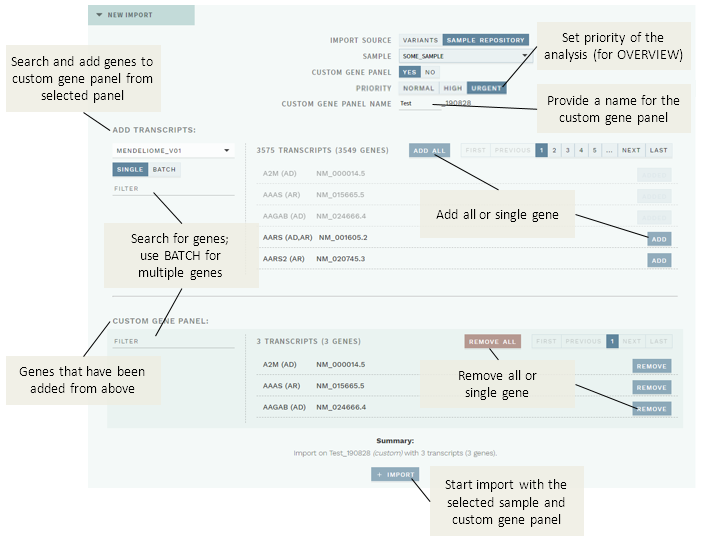
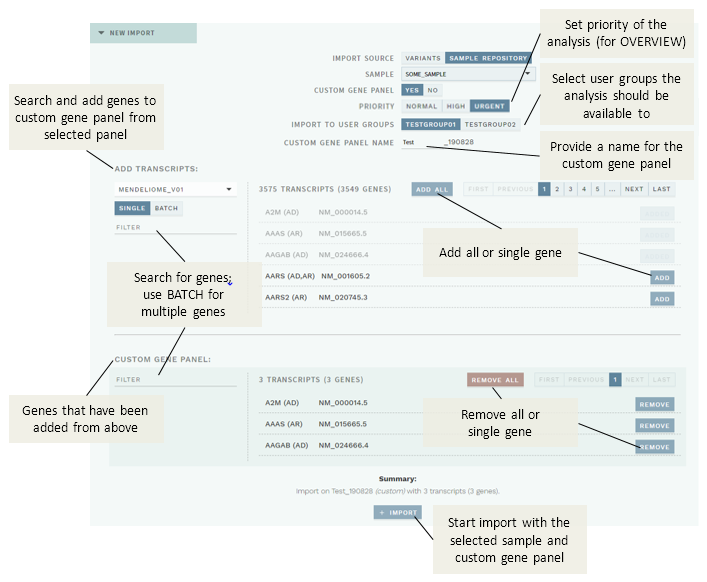
[docs] Changes in release notes and manual for !463

diff --git a/docs/releasenotes/README.md b/docs/releasenotes/README.md
@@ -92,6 +92,19 @@ In addition, ELLA now displays a message at the bottom of the page if a finalize
 
 Note that the message is only displayed when a user finalizes another variant or manually refreshes the view.
 
+#### Select user group on custom imports
+
+To better support custom gene panel imports that should be available to more than one user group, the custom gene panel import dialogue now includes an option to select user groups: 
+
+<div style="text-indent: 4%;">
+    <img src="./img/1-12-select-user-group-custom-import.png">
+    <br>
+    <div style="font-size: 80%;">
+        <strong>Figure: </strong>Message when evaluation has been updated by another user.
+    </div>
+    <br>
+</div>
+
 
 ### All changes
 
@@ -106,7 +119,7 @@ Note that the message is only displayed when a user finalizes another variant or
 <!-- MR !450 -->
 - Added support for templates in the Gene information comment field.
 <!-- MR !453 -->
-- Fixed wrong tooltip on `SUBMIT REPORT` button
+- Fixed wrong tooltip on `SUBMIT REPORT` button.
 <!-- MR !454 -->
 - [Show latest interpretation round by default for historical analyses, including warning](#improvements-to-history).
 <!-- MR !455 -->
@@ -115,10 +128,10 @@ Note that the message is only displayed when a user finalizes another variant or
 - [Display message when variant in ongoing analysis has been updated by another user](#improved-warnings).
 <!-- MR !458 -->
 - [Variant collision warnings are now separated from annotation warnings on the CLASSIFICATION page](#improved-warnings).
-<!-- MR !463 TODO: QA, update manual/data-import-reanalyses.html#custom-reanalyses-from-sample-repository -->
-- It is now possible to select which user groups an imported custom gene panel analysis should be available to. 
+<!-- MR !463 -->
+- [Added possibility to select which user groups an imported custom gene panel analysis should be available to](#select-user-group-on-custom-imports). 
 <!-- MR !465 -->
-- [Improved design of the history modal, with addition of CLASSIFICATION REPORT history and sorted ACMG criteria.](#improvements-to-history)
+- [Improved design of the history modal, with addition of CLASSIFICATION REPORT history and sorted ACMG criteria](#improvements-to-history).
 <!-- MR !473 -->
 - Added possibility for linking attachments on the INFO page.
 <!-- MR !475 -->

diff --git a/docs/manual/data-import-reanalyses.md b/docs/manual/data-import-reanalyses.md
@@ -116,6 +116,8 @@ If you choose CUSTOM GENE PANEL: `YES`, you may instead add any combination of g
 
 To start a reanalysis with a custom gene panel for a chosen sample: 
 
+  - Select the user groups the analysis should be made available to (IMPORT TO USER GROUPS).
+  
   - Add a name for custom gene panel in the CUSTOM GENE PANEL NAME field. This should be max 12 characters, and you should avoid using the same name more than once per day to ensure a unique name.
 
   - In the ADD TRANSCRIPTS section: 
